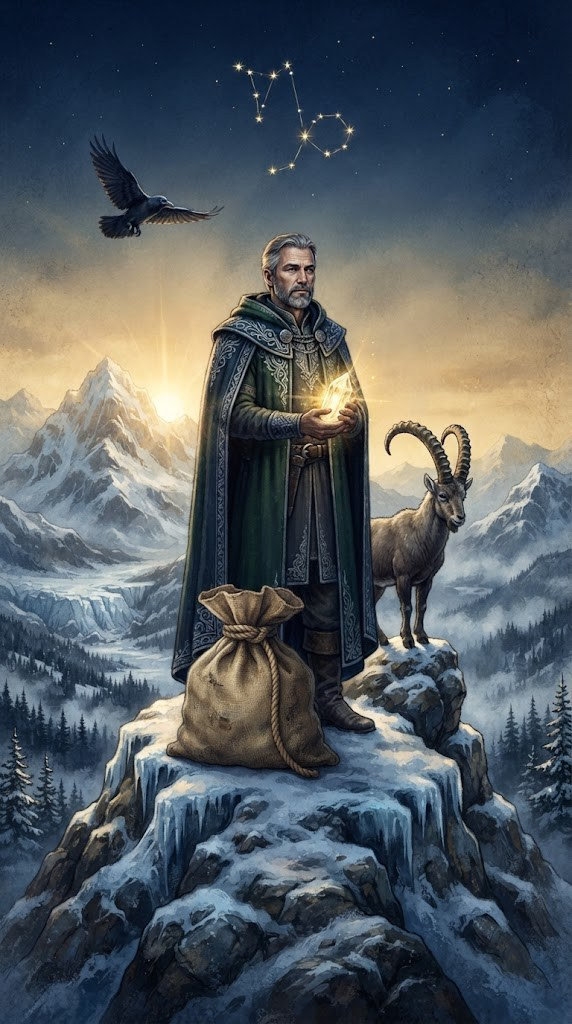
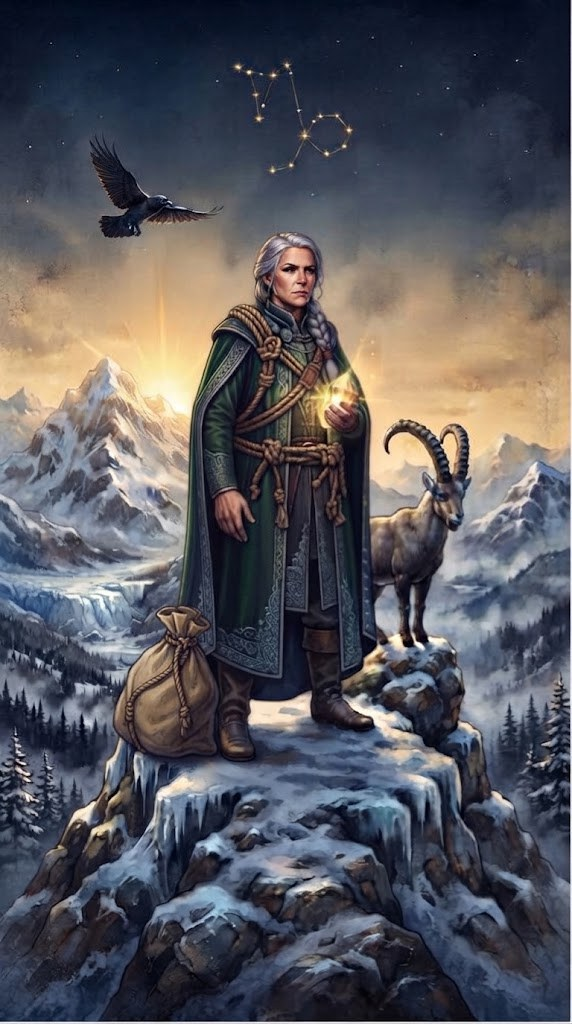
Archetipi: Capricorno diventa La Saggia (nuova immagine), Toro La Custode, Pesci La Mistica

diff --git a/content.py b/content.py
@@ -49,7 +49,7 @@ SERVICES = {
 # (simbolo, segno, elemento, archetipo, frase)
 SIGNS = [
     ("♈", "Ariete", "Fuoco", "Il Guerriero", "Il coraggio di iniziare e di affermare chi sei."),
-    ("♉", "Toro", "Terra", "Il Custode", "La calma di radicarsi e di coltivare ciò che ha valore."),
+    ("♉", "Toro", "Terra", "La Custode", "La calma di radicarsi e di coltivare ciò che ha valore."),
     ("♊", "Gemelli", "Aria", "Il Messaggero", "La curiosità che collega idee, persone e parole."),
     ("♋", "Cancro", "Acqua", "La Madre", "La capacità di accogliere, nutrire e proteggere."),
     ("♌", "Leone", "Fuoco", "Il Sovrano", "La luce di chi si esprime dal cuore."),
@@ -57,9 +57,9 @@ SIGNS = [
     ("♎", "Bilancia", "Aria", "L'Amante", "La ricerca di armonia, bellezza e relazione."),
     ("♏", "Scorpione", "Acqua", "L'Alchimista", "La forza di attraversare l'ombra e rinascere."),
     ("♐", "Sagittario", "Fuoco", "Il Cercatore", "Lo slancio verso il senso e l'orizzonte."),
-    ("♑", "Capricorno", "Terra", "Il Saggio", "La pazienza di costruire e la responsabilità."),
+    ("♑", "Capricorno", "Terra", "La Saggia", "La pazienza di costruire e la responsabilità."),
     ("♒", "Acquario", "Aria", "Il Visionario", "La libertà di pensare oltre le regole."),
-    ("♓", "Pesci", "Acqua", "Il Mistico", "L'empatia che scioglie i confini."),
+    ("♓", "Pesci", "Acqua", "La Mistica", "L'empatia che scioglie i confini."),
 ]
 
 # Quando si apre una carta: periodo, dono (dalla leggenda della creazione riportata da Martin Schulman,
@@ -105,7 +105,7 @@ SIGN_MEDIA = {
     "Bilancia": {"fig": "img/archetipi/bilancia-figura.jpg", "img": "img/archetipi/bilancia.jpg", "video": "video/archetipi/bilancia.mp4", "audio": True, "alt": "Video: la Bilancia, giovane uomo con gilet lilla e mantello verde di foglie d'autunno, chiude gli occhi mentre un nastro di luce dorata lo avvolge, e appare nel giardino di rose tra il giorno e la notte, con la bilancia in mano e una colomba sulla fontana"},
     "Scorpione": {"fig": "img/archetipi/scorpione-figura.jpg", "img": "img/archetipi/scorpione.jpg", "pos": "50% 12%", "alt": "Illustrazione dello Scorpione, l'Alchimista: una giovane donna dai lunghi capelli neri in abito bordeaux ricamato d'oro, inginocchiata sulla riva di un lago scuro in una grotta, tiene tra le mani un'ampolla di luce dorata. Sulla roccia accanto a lei uno scorpione, che riflesso nell'acqua diventa una fenice di fuoco. Sullo sfondo un vulcano e il simbolo dello Scorpione disegnato dalle stelle"},
     "Sagittario": {"fig": "img/archetipi/sagittario-figura.jpg", "img": "img/archetipi/sagittario.jpg", "video": "video/archetipi/sagittario.mp4", "audio": True, "alt": "Video: un centauro in un lago di montagna sotto la luna piena, tra cristalli verdi"},
-    "Capricorno": {"fig": "img/archetipi/capricorno-figura.jpg", "img": "img/archetipi/capricorno.jpg", "pos": "50% 30%", "alt": "Illustrazione del Capricorno, il Saggio: un uomo maturo con mantello verde scuro ricamato d'argento, in piedi sulla vetta innevata di una montagna all'alba d'inverno, tiene tra le mani un cristallo che si accende di luce dorata. Ai suoi piedi ha posato il sacco di tela portato durante la salita; accanto a lui uno stambecco, in cielo un corvo e il simbolo del Capricorno disegnato dalle stelle, mentre il sole sorge dietro le vette e scioglie il ghiaccio"},
+    "Capricorno": {"fig": "img/archetipi/capricorno-figura.jpg", "img": "img/archetipi/capricorno.jpg", "pos": "50% 30%", "alt": "Illustrazione del Capricorno, la Saggia: una donna matura dai capelli d'argento raccolti in una treccia, con mantello verde scuro ricamato e corde annodate sul petto, in piedi sulla vetta innevata di una montagna all'alba d'inverno, tiene in mano un cristallo che si accende di luce dorata. Ai suoi piedi ha posato il sacco di tela portato durante la salita; accanto a lei uno stambecco, in cielo un corvo e il simbolo del Capricorno disegnato dalle stelle, mentre il sole sorge dietro le vette"},
     "Acquario": {"fig": "img/archetipi/acquario-figura.jpg", "img": "img/archetipi/acquario.jpg", "pos": "50% 20%", "alt": "Illustrazione dell'Acquario, il Visionario: un giovane dai capelli chiari mossi dal vento, con un'aureola dorata e una tuta argentata a fulmini colorati, versa acqua luminosa da due anfore su un paesaggio di ghiaccio di notte. Nel cielo l'aurora boreale e la costellazione dell'Acquario, un dirigibile e un deltaplano; una zebra e un orso polare bevono dall'acqua"},
 }
 

diff --git a/seo.py b/seo.py
@@ -60,7 +60,7 @@ PAGE_DEFAULTS = {
         "massaggio psicosomatico, tocco consapevole, benessere corpo mente, benessere olistico"),
     "archetipi-astrologici": ("Archetipi astrologici",
         "Archetipi astrologici | I 12 segni zodiacali – Daliamae",
-        "Dodici archetipi astrologici, dal Guerriero al Mistico: i segni zodiacali letti con l'astrologia evolutiva come modi di stare al mondo e di crescere.",
+        "Dodici archetipi astrologici, dal Guerriero alla Mistica: i segni zodiacali letti con l'astrologia evolutiva come modi di stare al mondo e di crescere.",
         "archetipi astrologici, segni zodiacali, astrologia evolutiva, elementi fuoco terra aria acqua"),
     "eventi": ("Eventi",
         "Eventi olistici | Meditazioni di gruppo e incontri – Daliamae",
